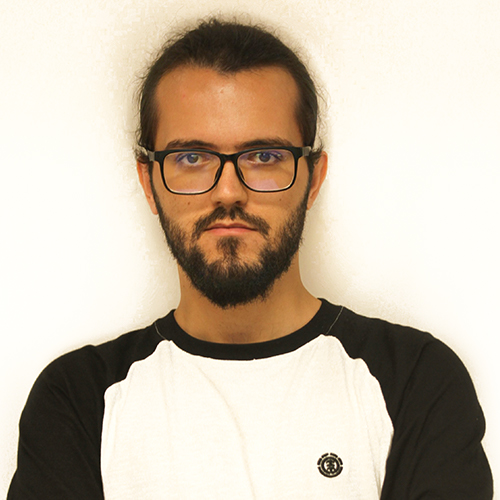
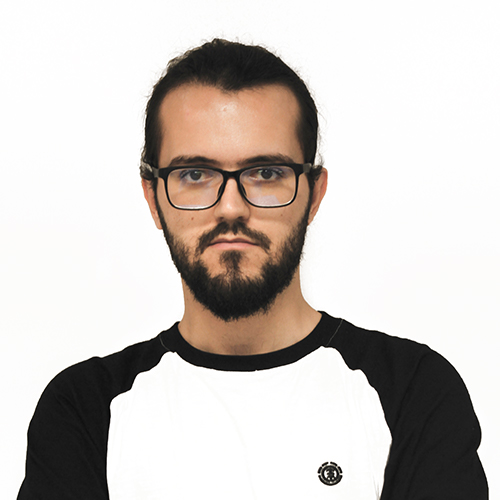
feat: added missing team photos

diff --git a/pages/contact/index.js b/pages/contact/index.js
@@ -17,9 +17,11 @@ function Connect() {
       </Head>
       <Section style={'flex pt-24 md:h-auto lg:py-48 lg:h-screen'}>
         <Container
-          style={'flex flex-col md:flex-row md:gap-24 md:items-center'}
+          style={
+            'flex flex-col md:flex-row md:gap-24 md:items-center md:justify-between'
+          }
         >
-          <div className="mb-4 flex items-center sm:mx-auto">
+          <div className="mb-4 flex">
             <ContactAnimation
               firstPhrase="hear"
               secondPhrase="from"

diff --git a/data/StaffList.js b/data/StaffList.js
@@ -93,7 +93,7 @@ const StaffList = [
       name: 'Fitim Halimi',
       email: 'fitim@wayland.io',
       position: 'Software Engineer',
-      image: '/assets/staff/missing.png'
+      image: '/assets/staff/fitimi.jpg'
     }
   ],
   [
@@ -118,7 +118,7 @@ const StaffList = [
       name: 'Kostadin Angelov',
       email: 'kostadin@wayland.io',
       position: 'Software Engineer',
-      image: '/assets/staff/missing.png'
+      image: '/assets/staff/konstadin.jpg'
     },
     {
       id: 9,
